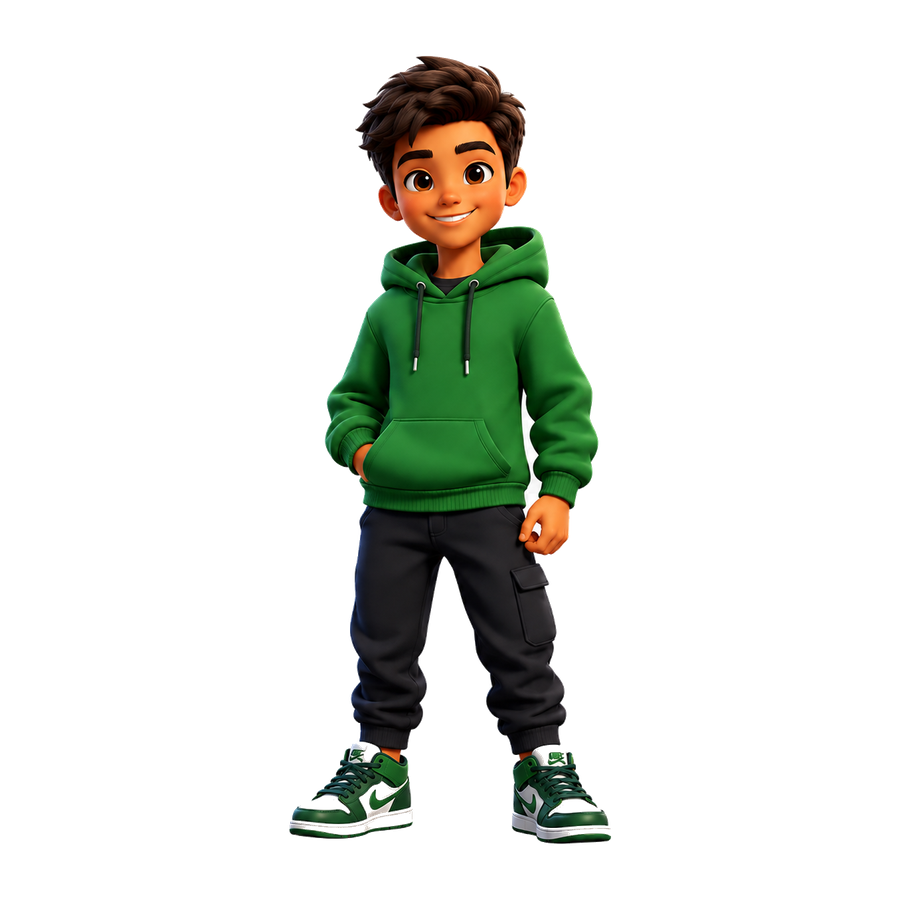
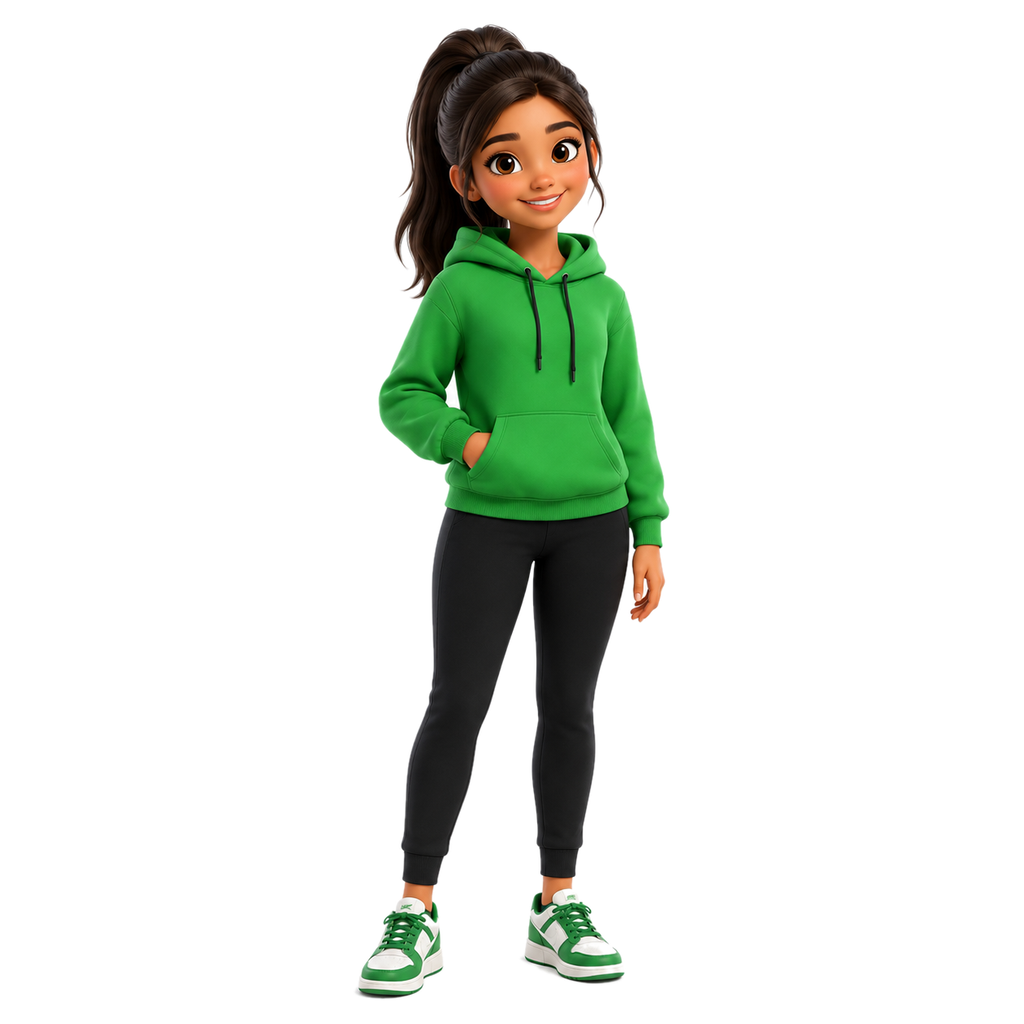
DD

Changed region(s): [[0.3111, 0.0, 0.6844, 0.9956]]

diff --git a/juegos/app.js b/juegos/app.js
@@ -19,8 +19,8 @@ var currentAvatar = 'avatarcfg:%7B%22base%22%3A%22carlos%22%2C%22outfitColor%22%
 var availableAvatars = [
     { id: 'carlos',    label: 'Carlos',    gender: 'male',   src: './assets/avatars/carlos.png',    accent: '#ef4444', keyColor: '#cf2029' },
     { id: 'lucia',     label: 'Lucía',     gender: 'female', src: './assets/avatars/lucia.png',     accent: '#8b5cf6', keyColor: '#6b2ec8', variantSrcs: { cap: './assets/avatars/lucia_cap.png', stethoscope: './assets/avatars/lucia_stethoscope.png' } },
-    { id: 'mateo',     label: 'Mateo',     gender: 'male',   src: './assets/avatars/mateo.png',     accent: '#1d4ed8', keyColor: '#273866' },
-    { id: 'sofia',     label: 'Sofía',     gender: 'female', src: './assets/avatars/sofia.png',     accent: '#22c55e', keyColor: '#228d35' },
+    { id: 'mateo',     label: 'Mateo',     gender: 'male',   src: './assets/avatars/mateo.png',     accent: '#1d4ed8', keyColor: '#273866', variantSrcs: { cap: './assets/avatars/mateo_cap.png', stethoscope: './assets/avatars/mateo_stethoscope.png' } },
+    { id: 'sofia',     label: 'Sofía',     gender: 'female', src: './assets/avatars/sofia.png',     accent: '#22c55e', keyColor: '#228d35', variantSrcs: { cap: './assets/avatars/sofia_cap.png', stethoscope: './assets/avatars/sofia_stethoscope.png' } },
     { id: 'andres',    label: 'Andrés',    gender: 'male',   src: './assets/avatars/andres.png',     accent: '#ec4899', keyColor: '#ef5ba7' },
     { id: 'valentina', label: 'Valentina', gender: 'female', src: './assets/avatars/valentina.png', accent: '#facc15', keyColor: '#dfaf1c' },
     { id: 'diego',     label: 'Diego',     gender: 'male',   src: './assets/avatars/diego.png',     accent: '#06b6d4', keyColor: '#0a9ca8' },
@@ -414,16 +414,31 @@ function avatarAccessoryOptionsHtml(selectedAccessory) {
     return html;
 }
 
+function avatarVariantButtonHtml(baseId, accessory, label, selectedAccessory, isSelectedBase) {
+    var selected = isSelectedBase && (selectedAccessory || 'none') === accessory;
+    return '<button type="button" class="avatar-variant-btn' + (selected ? ' selected' : '') + '" onclick="chooseAvatarVariant(\'' + baseId + '\', \'' + accessory + '\')">' + escapeHtml(label) + '</button>';
+}
+
 function avatarCardsHtml(selectedBase) {
     var html = '';
     for (var i = 0; i < availableAvatars.length; i++) {
         var item = availableAvatars[i];
-        var cfg = { base: item.id, outfitColor: avatarDraftConfig ? avatarDraftConfig.outfitColor : item.accent, accessory: avatarDraftConfig ? avatarDraftConfig.accessory : 'none' };
         var selected = selectedBase === item.id;
-        html += '<button type="button" class="avatar-modal-card' + (selected ? ' selected' : '') + '" onclick="chooseAvatarBase(\'' + item.id + '\')">';
-        html += '<span class="avatar-modal-thumb-wrap" style="--avatar-accent:' + item.accent + '">' + avatarMarkup(encodeAvatarConfig(cfg), item.label, 'avatar-modal-thumb') + '</span>';
+        var selectedAccessory = selected && avatarDraftConfig ? avatarDraftConfig.accessory : 'none';
+        var selectedColor = selected && avatarDraftConfig ? avatarDraftConfig.outfitColor : item.accent;
+        var cfg = { base: item.id, outfitColor: selectedColor, accessory: selectedAccessory };
+        var cardLabel = selectedAccessory === 'cap' ? item.label + ' con gorra' : selectedAccessory === 'stethoscope' ? item.label + ' con estetoscopio' : item.label + ' solo ropa';
+        html += '<article class="avatar-modal-card avatar-carousel-card' + (selected ? ' selected' : '') + '" style="--avatar-accent:' + item.accent + '">';
+        html += '<button type="button" class="avatar-card-select" onclick="chooseAvatarVariant(\'' + item.id + '\', \'none\')" aria-label="Seleccionar ' + escapeHtml(item.label) + ' solo ropa">';
+        html += '<span class="avatar-modal-thumb-wrap">' + avatarMarkup(encodeAvatarConfig(cfg), cardLabel, 'avatar-modal-thumb') + '</span>';
         html += '<span class="avatar-modal-label">' + escapeHtml(item.label) + '</span>';
+        html += '<span class="avatar-modal-state">' + (selectedAccessory === 'cap' ? 'Con gorra' : selectedAccessory === 'stethoscope' ? 'Con estetoscopio' : 'Solo ropa') + '</span>';
         html += '</button>';
+        html += '<div class="avatar-card-variants">';
+        html += avatarVariantButtonHtml(item.id, 'cap', 'Gorra', selectedAccessory, selected);
+        html += avatarVariantButtonHtml(item.id, 'stethoscope', 'Esteto', selectedAccessory, selected);
+        html += '</div>';
+        html += '</article>';
     }
     return html;
 }
@@ -436,9 +451,12 @@ function renderAvatarModal() {
     var colors = document.getElementById('avatar-color-options');
     var accessories = document.getElementById('avatar-accessory-options');
     if (preview) preview.innerHTML = avatarMarkup(encodeAvatarConfig(avatarDraftConfig), 'Vista previa', 'avatar-preview-media');
-    if (grid) grid.innerHTML = avatarCardsHtml(avatarDraftConfig.base);
-    if (colors) colors.innerHTML = avatarColorSwatchesHtml(avatarDraftConfig.outfitColor);
-    if (accessories) accessories.innerHTML = avatarAccessoryOptionsHtml(avatarDraftConfig.accessory);
+    if (grid) {
+        grid.classList.add('avatar-carousel');
+        grid.innerHTML = avatarCardsHtml(avatarDraftConfig.base);
+    }
+    if (colors) colors.innerHTML = '';
+    if (accessories) accessories.innerHTML = '';
     scheduleAvatarHydration(modal);
 }
 
@@ -456,10 +474,16 @@ window.closeAvatarModal = function() {
 };
 
 window.chooseAvatarBase = function(baseId) {
+    window.chooseAvatarVariant(baseId, 'none');
+};
+
+window.chooseAvatarVariant = function(baseId, accessory) {
+    var def = getAvatarDefById(baseId);
+    var keepCurrentColor = avatarDraftConfig && avatarDraftConfig.base === baseId;
     avatarDraftConfig = ensureAvatarConfig({
         base: baseId,
-        outfitColor: avatarDraftConfig ? avatarDraftConfig.outfitColor : getAvatarDefById(baseId).accent,
-        accessory: avatarDraftConfig ? avatarDraftConfig.accessory : 'none'
+        outfitColor: keepCurrentColor ? avatarDraftConfig.outfitColor : def.accent,
+        accessory: normalizeAvatarAccessory(accessory)
     });
     renderAvatarModal();
 };
@@ -472,8 +496,7 @@ window.chooseAvatarColor = function(color) {
 
 window.chooseAvatarAccessory = function(accessory) {
     if (!avatarDraftConfig) avatarDraftConfig = decodeAvatarConfig(currentAvatar, 'avatar');
-    avatarDraftConfig.accessory = normalizeAvatarAccessory(accessory);
-    renderAvatarModal();
+    window.chooseAvatarVariant(avatarDraftConfig.base, accessory);
 };
 
 window.saveAvatarSelection = function() {

diff --git a/juegos/styles.css b/juegos/styles.css
@@ -4312,13 +4312,13 @@ body.quiz-focus-mode #quiz-container {
 #avatar-grid.avatar-carousel {
     display: flex !important;
     grid-template-columns: none !important;
-    gap: 14px !important;
+    gap: 16px !important;
     overflow-x: auto;
     overflow-y: hidden;
     scroll-snap-type: x mandatory;
     scroll-padding: 18px;
-    padding: 4px 8px 16px;
-    margin: 0 -8px 24px !important;
+    padding: 6px 8px 18px;
+    margin: 0 -8px 10px !important;
     -webkit-overflow-scrolling: touch;
 }
 
@@ -4332,23 +4332,24 @@ body.quiz-focus-mode #quiz-container {
 }
 
 #avatar-grid.avatar-carousel .avatar-modal-card {
-    flex: 0 0 min(74vw, 250px);
-    min-height: 190px;
+    flex: 0 0 min(78vw, 292px);
+    min-height: 354px;
     scroll-snap-align: center;
     display: flex;
     flex-direction: column;
     align-items: center;
-    justify-content: center;
+    justify-content: space-between;
+    gap: 12px;
 }
 
 #avatar-grid.avatar-carousel .avatar-modal-thumb-wrap {
-    width: 116px;
-    height: 116px;
-    border-radius: 28px;
+    width: min(62vw, 216px);
+    height: min(62vw, 216px);
+    border-radius: 22px;
 }
 
 #avatar-grid.avatar-carousel .avatar-modal-label {
-    font-size: 0.94rem;
+    font-size: 1rem;
 }
 
 @media (max-width: 480px) {
@@ -4369,7 +4370,7 @@ body.quiz-focus-mode #quiz-container {
 
     #avatar-grid.avatar-carousel .avatar-modal-card {
         flex-basis: calc(100% - 18px);
-        min-height: 210px;
+        min-height: 344px;
     }
 }
 
@@ -4625,6 +4626,58 @@ body.quiz-focus-mode #quiz-container {
   color: #f8fafc;
   font-weight: 700;
 }
+.avatar-carousel-hint {
+  margin: -4px 0 12px;
+  color: var(--text-mid);
+  font-size: .82rem;
+  line-height: 1.35;
+}
+.avatar-card-select {
+  width: 100%;
+  border: 0;
+  background: transparent;
+  color: inherit;
+  padding: 0;
+  cursor: pointer;
+  display: flex;
+  flex-direction: column;
+  align-items: center;
+}
+.avatar-modal-state {
+  display: inline-flex;
+  align-items: center;
+  justify-content: center;
+  margin-top: 6px;
+  min-height: 24px;
+  padding: 4px 10px;
+  border-radius: 999px;
+  background: rgba(15,23,42,.62);
+  color: rgba(226,232,240,.92);
+  font-size: .72rem;
+  font-weight: 800;
+}
+.avatar-card-variants {
+  width: 100%;
+  display: grid;
+  grid-template-columns: repeat(2, minmax(0, 1fr));
+  gap: 10px;
+}
+.avatar-variant-btn {
+  border: 1px solid rgba(148,163,184,.34);
+  border-radius: 14px;
+  padding: 11px 10px;
+  background: rgba(15,23,42,.78);
+  color: #f8fafc;
+  cursor: pointer;
+  font-weight: 800;
+  box-shadow: inset 0 1px 0 rgba(255,255,255,.08);
+}
+.avatar-variant-btn:hover,
+.avatar-variant-btn.selected {
+  border-color: rgba(96,165,250,.72);
+  background: linear-gradient(135deg, rgba(37,99,235,.88), rgba(14,165,233,.58));
+  box-shadow: 0 8px 22px rgba(37,99,235,.22);
+}
 .avatar-color-options {
   display: grid;
   grid-template-columns: repeat(2, minmax(0, 1fr));
@@ -4660,6 +4713,10 @@ body.quiz-focus-mode #quiz-container {
   display: grid;
   grid-template-columns: repeat(2, minmax(0, 1fr));
   gap: 10px;
+}
+#avatar-color-options[hidden],
+#avatar-accessory-options[hidden] {
+  display: none !important;
 }
 .avatar-editor-actions {
   display: flex;

diff --git a/juegos/index.html b/juegos/index.html
@@ -8,7 +8,7 @@
   <link rel="preconnect" href="https://fonts.googleapis.com">
   <link href="https://fonts.googleapis.com/css2?family=Inter:wght@400;500;600;700;800;900&display=swap" rel="stylesheet">
   <link rel="stylesheet" href="https://cdnjs.cloudflare.com/ajax/libs/font-awesome/6.4.0/css/all.min.css">
-  <link rel="stylesheet" href="styles.css?v=42">
+  <link rel="stylesheet" href="styles.css?v=43">
   
   <!-- PWA Meta Tags -->
   <link rel="manifest" href="manifest.json">
@@ -641,7 +641,7 @@
 <!-- SCRIPTS -->
 <script src="https://cdn.jsdelivr.net/npm/@supabase/supabase-js@2"></script>
 <script src="../device_guard.js?v=3"></script>
-<script src="app.js?v=37"></script>
+<script src="app.js?v=38"></script>
 
 <!-- PWA Service Worker Registration -->
 <!-- AVATAR MODAL -->
@@ -650,7 +650,7 @@
     <div class="avatar-editor-head">
       <div>
         <h2 style="font-size:1.4rem;font-weight:800;margin-bottom:8px">Personaliza tu avatar</h2>
-        <p style="font-size:.9rem;color:var(--text-mid)">Elige personaje y variacion: solo ropa, gorra o estetoscopio</p>
+        <p style="font-size:.9rem;color:var(--text-mid)">Desliza a la derecha, toca el avatar para usar solo ropa o elige gorra/estetoscopio.</p>
       </div>
       <button type="button" class="avatar-modal-close" onclick="closeAvatarModal()"><i class="fas fa-times"></i></button>
     </div>
@@ -663,19 +663,12 @@
       </div>
     </div>
 
-    <div class="avatar-editor-section">
-      <h3>1. Personaje</h3>
-      <div id="avatar-grid" class="avatar-grid"></div>
-    </div>
-
-    <div class="avatar-editor-section">
-      <h3>2. Color de ropa</h3>
-      <div id="avatar-color-options" class="avatar-color-options"></div>
-    </div>
-
-    <div class="avatar-editor-section">
-      <h3>3. Variacion</h3>
-      <div id="avatar-accessory-options" class="avatar-accessory-options"></div>
+    <div class="avatar-editor-section avatar-carousel-section">
+      <h3>Elige tu avatar</h3>
+      <p class="avatar-carousel-hint">Desliza hacia la derecha para ver mas personajes.</p>
+      <div id="avatar-grid" class="avatar-grid avatar-carousel"></div>
+      <div id="avatar-color-options" class="avatar-color-options" hidden></div>
+      <div id="avatar-accessory-options" class="avatar-accessory-options" hidden></div>
     </div>
 
     <div class="avatar-editor-actions">

diff --git a/juegos/sw.js b/juegos/sw.js
@@ -1,4 +1,4 @@
-const CACHE_NAME = 'alcocermed-juegos-v55';
+const CACHE_NAME = 'alcocermed-juegos-v56';
 const ASSETS_TO_CACHE = [
   './',
   './index.html',
